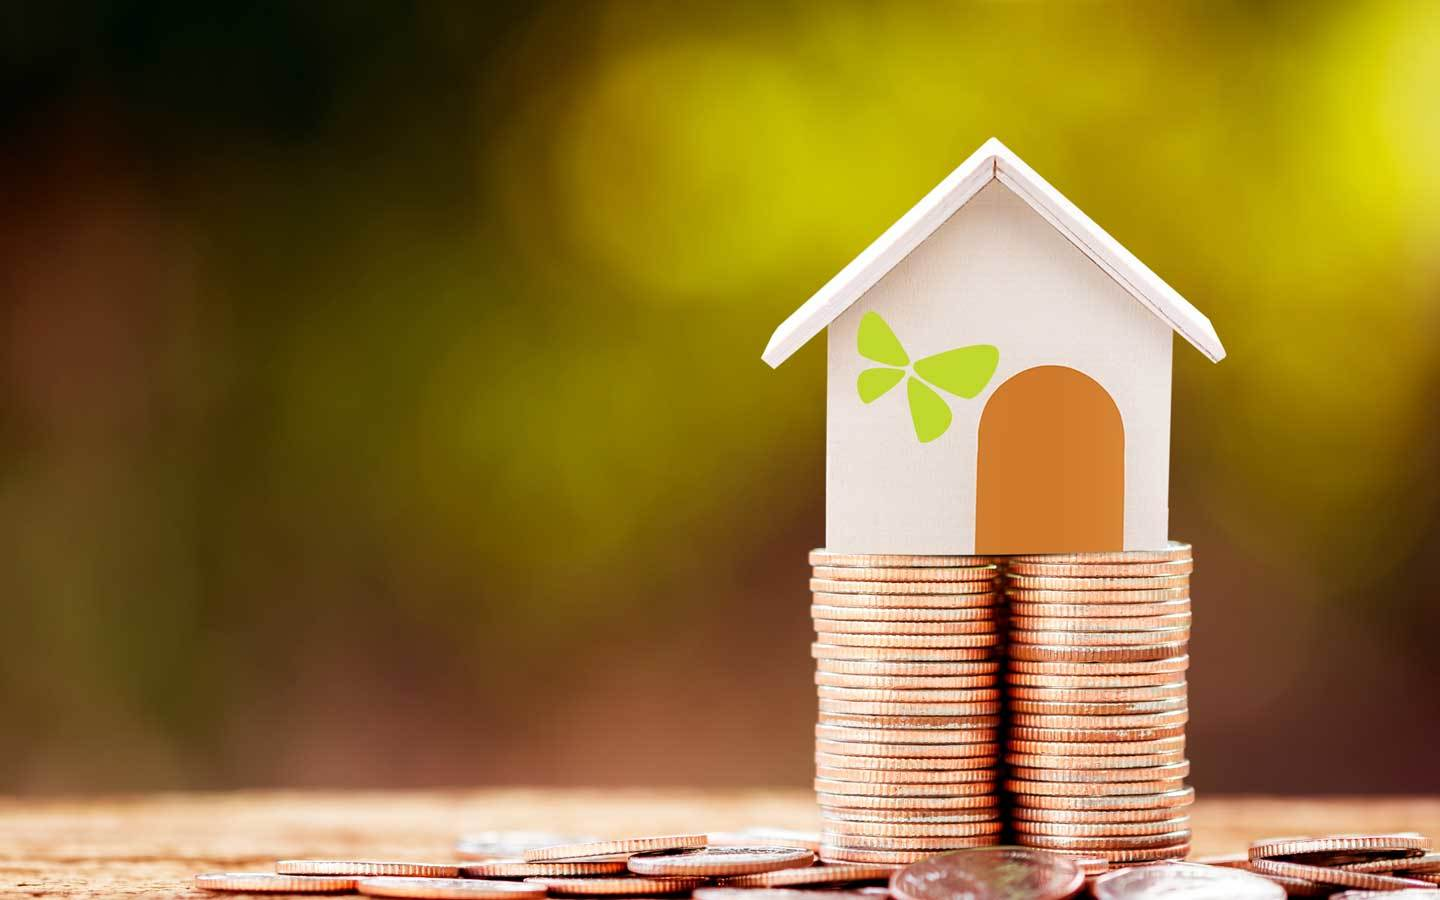
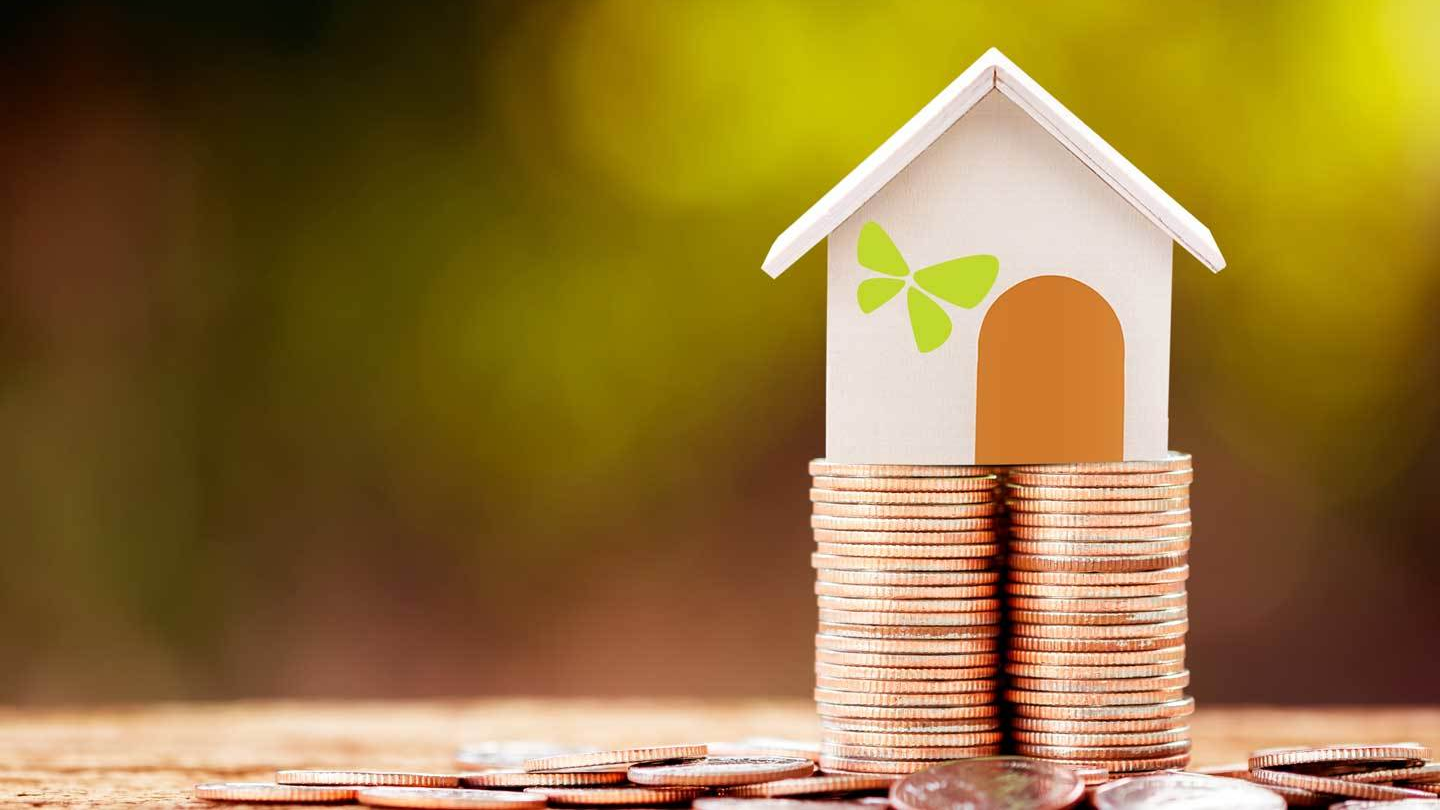
added shadows and resize the images as percentages

diff --git a/app/src/components/SlideShow.js b/app/src/components/SlideShow.js
@@ -1,5 +1,6 @@
 import Carousel from "react-bootstrap/Carousel";
 import Image from "react-bootstrap/Image";
+import './carousel-styles.css';
 
 import slide1DonationImage from "../images/slide1.png";
 import slide2DonationImage from "../images/slide2.png";
@@ -7,42 +8,38 @@ import slide3DonationImage from "../images/slide3.png";
 
 import React, { useState } from 'react';
 
-
 export default function SlideShow() {
-    const [imageSize, setImageSize] = useState({ width: '100%', height: '768px', opacity: '0.5' });
+  const [imageSize, setImageSize] = useState({ width: '100%', height: '100%', opacity: '0.4' });
 
-    const handleImageSizeChange = (newWidth, newHeight) => {
-      setImageSize({ width: newWidth, height: newHeight });
-    };
+  const handleImageSizeChange = (newWidth, newHeight) => {
+    setImageSize({ width: newWidth, height: newHeight });
+  };
 
-    return (
-    <Carousel>
-      <Carousel.Item>
-        <Image src={slide1DonationImage} alt="slide1-donation"
-        style={{ width: imageSize.width, height: imageSize.height }}  />
-        <Carousel.Caption>
-          <h3>First slide label</h3>
-          <p>Nulla vitae elit libero, a pharetra augue mollis interdum.</p>
-        </Carousel.Caption>
-      </Carousel.Item>
-      <Carousel.Item>
-        <Image src={slide2DonationImage} alt="slide2-donation" 
-        style={{ width: imageSize.width, height: imageSize.height }} />
-        <Carousel.Caption>
-          <h3>Second slide label</h3>
-          <p>Lorem ipsum dolor sit amet, consectetur adipiscing elit.</p>
-        </Carousel.Caption>
-      </Carousel.Item>
-      <Carousel.Item>
-        <Image src={slide3DonationImage} alt="slide3-donation"
-        style={{ width: imageSize.width, height: imageSize.height }}  />
-        <Carousel.Caption>
-          <h3>Third slide label</h3>
-          <p>
-            Praesent commodo cursus magna, vel scelerisque nisl consectetur.
-          </p>
-        </Carousel.Caption>
-      </Carousel.Item>
-    </Carousel>
+  return (
+    <div className="carousel-container" style={{ width: '80%', margin: '0' }}>
+      <Carousel>
+        <Carousel.Item>
+          <Image src={slide1DonationImage} alt="slide1-donation" style={{ width: imageSize.width, height: imageSize.height }} />
+          <Carousel.Caption>
+            <h3>First slide label</h3>
+            <p>Nulla vitae elit libero, a pharetra augue mollis interdum.</p>
+          </Carousel.Caption>
+        </Carousel.Item>
+        <Carousel.Item>
+          <Image src={slide2DonationImage} alt="slide2-donation" style={{ width: imageSize.width, height: imageSize.height }} />
+          <Carousel.Caption>
+            <h3>Second slide label</h3>
+            <p>Lorem ipsum dolor sit amet, consectetur adipiscing elit.</p>
+          </Carousel.Caption>
+        </Carousel.Item>
+        <Carousel.Item>
+          <Image src={slide3DonationImage} alt="slide3-donation" style={{ width: imageSize.width, height: imageSize.height }} />
+          <Carousel.Caption>
+            <h3>Third slide label</h3>
+            <p>Praesent commodo cursus magna, vel scelerisque nisl consectetur.</p>
+          </Carousel.Caption>
+        </Carousel.Item>
+      </Carousel>
+    </div>
   );
 }

diff --git a/app/src/components/HomeStruct.js b/app/src/components/HomeStruct.js
@@ -7,15 +7,17 @@ import row3DonationImage from "../images/row3-donation.png";
 export default function HomeStruct() {
   return (
     <Container fluid>
-      <Row >
+      {/* <Row >
         <Image src={row1DonationImage} alt="row1-donation" />
-      </Row>
+        style={{ width: imageSize.width, height: imageSize.height }}
+      </Row> */}
       <Row>
         <SlideShow fluid></SlideShow>
       </Row>
-      <Row>
+      {/* <Row>
         <Image src={row3DonationImage} alt="row3-donation" />
-      </Row>
+        style={{ width: imageSize.width, height: imageSize.height }}
+      </Row> */}
     </Container>
   );
 }

diff --git a/app/src/components/carousel-styles.css b/app/src/components/carousel-styles.css
@@ -1,0 +1,11 @@
+.carousel-control-prev-icon,
+.carousel-control-next-icon {
+    filter: invert(100%); /* Invert the color of the arrow icon */
+    transition: filter 0.6s ease;
+}
+
+.carousel-control-prev:hover,
+.carousel-control-next:hover {
+    background-color: rgba(255, 255, 255, 0.3); /* Highlight background color on hover */
+    box-shadow: 0 0 4px 0 rgba(255, 255, 255, 0.5);
+}
